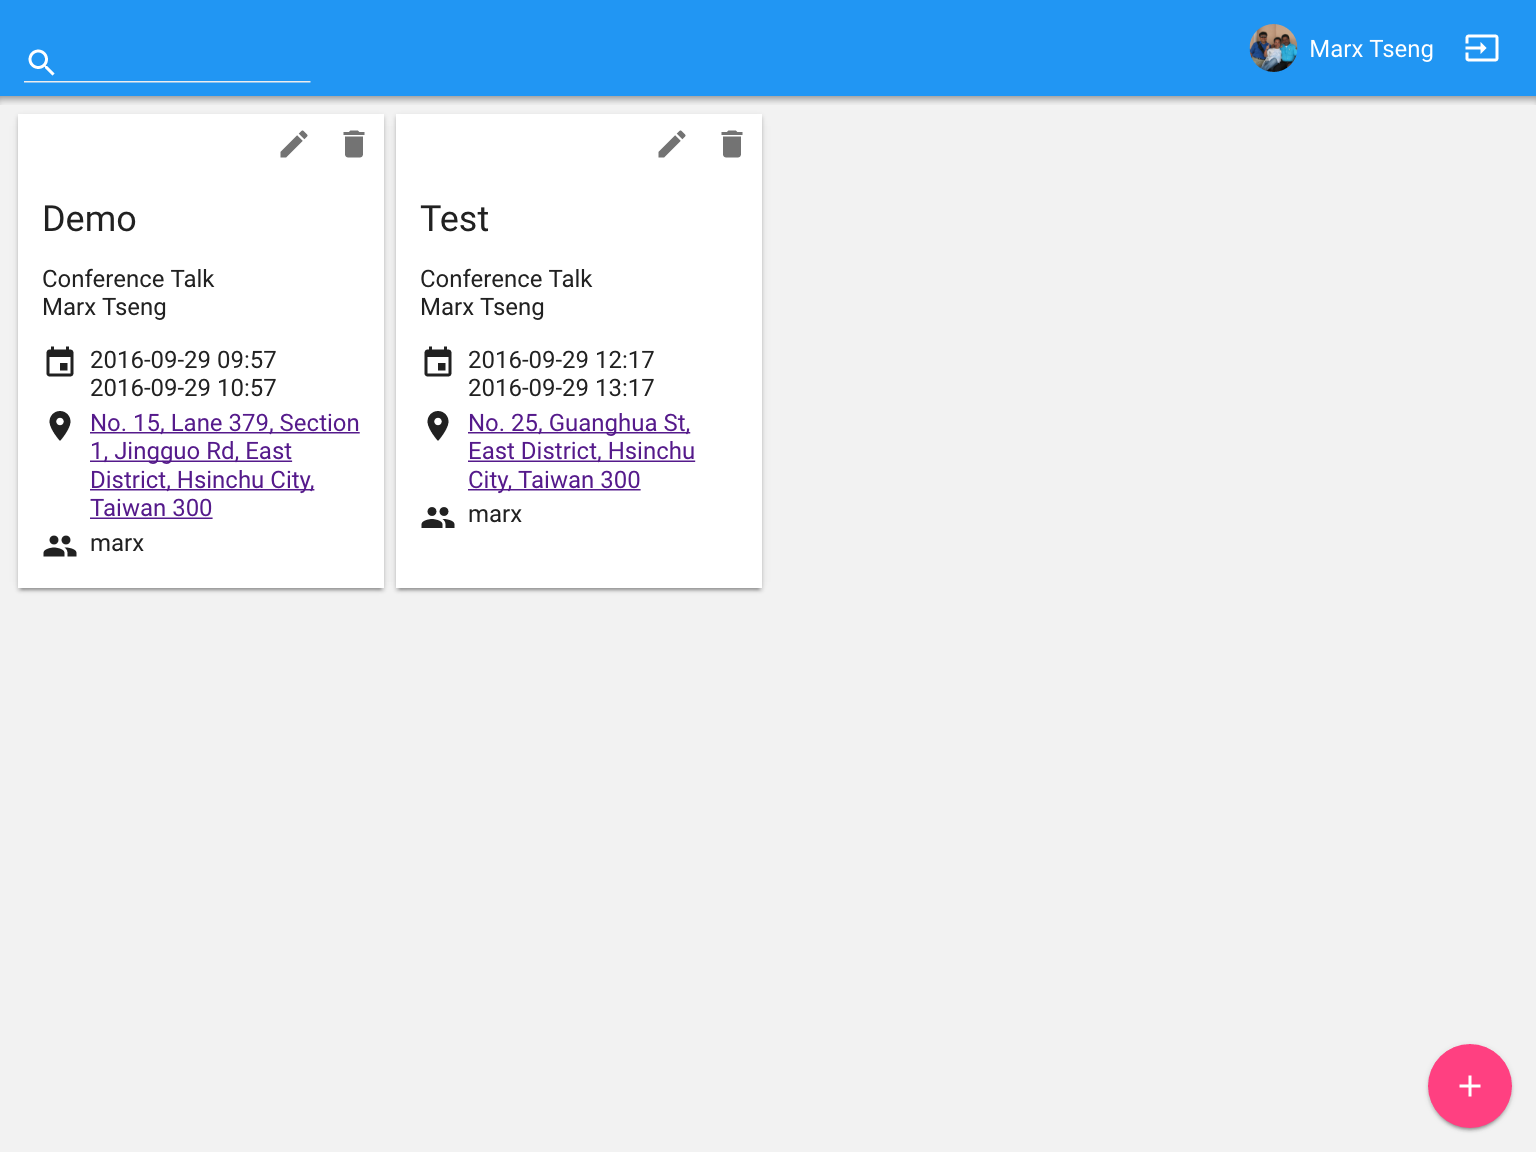
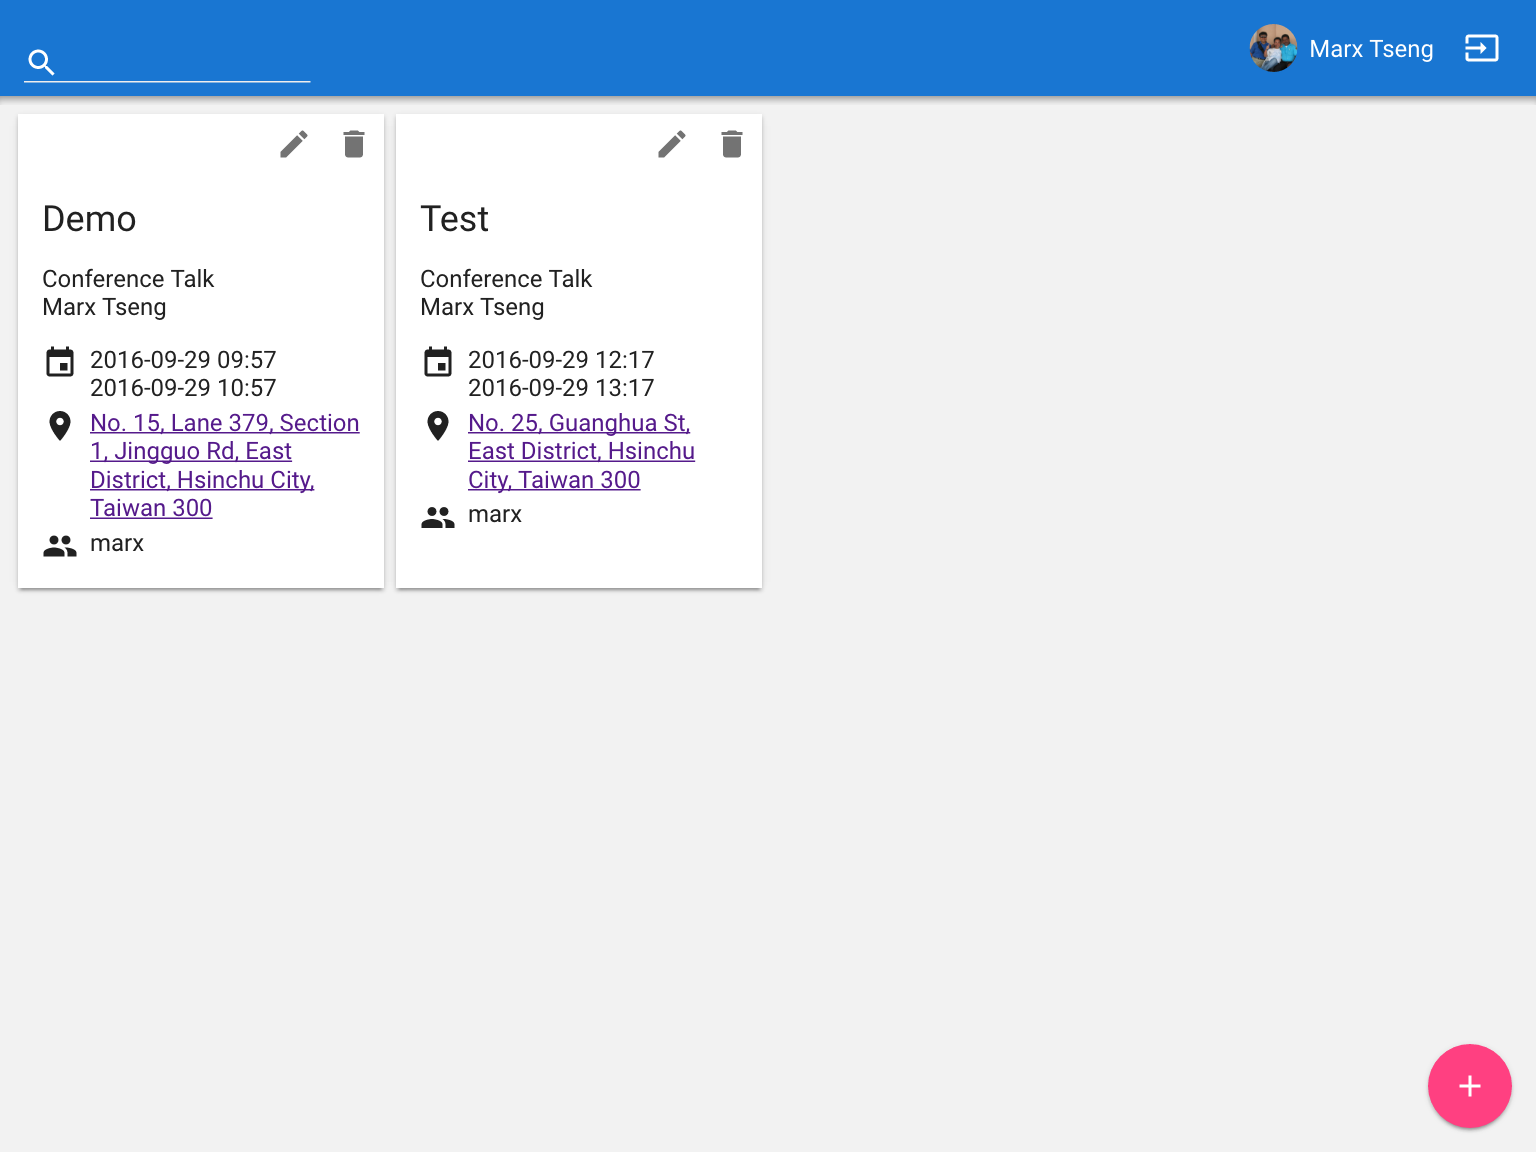
no message

Changed region(s): [[0.0, 0.0, 1.0, 0.0938]]

diff --git a/meet-up-event-planner.html b/meet-up-event-planner.html
@@ -38,10 +38,10 @@
         -moz-box-sizing: border-box;
         height: 100%;
         background: #f2f2f2;
-        --primary-color: var(--paper-blue-500);
-        --default-primary-color: var(--paper-blue-500);
-        --light-primary-color: var(--paper-blue-100);
-        --dark-primary-color: var(--paper-blue-700);
+        --primary-color: var(--paper-blue-700);
+        --default-primary-color: var(--paper-blue-700);
+        --light-primary-color: var(--paper-blue-300);
+        --dark-primary-color: var(--paper-blue-900);
     }
     
     :host paper-toolbar paper-input {
